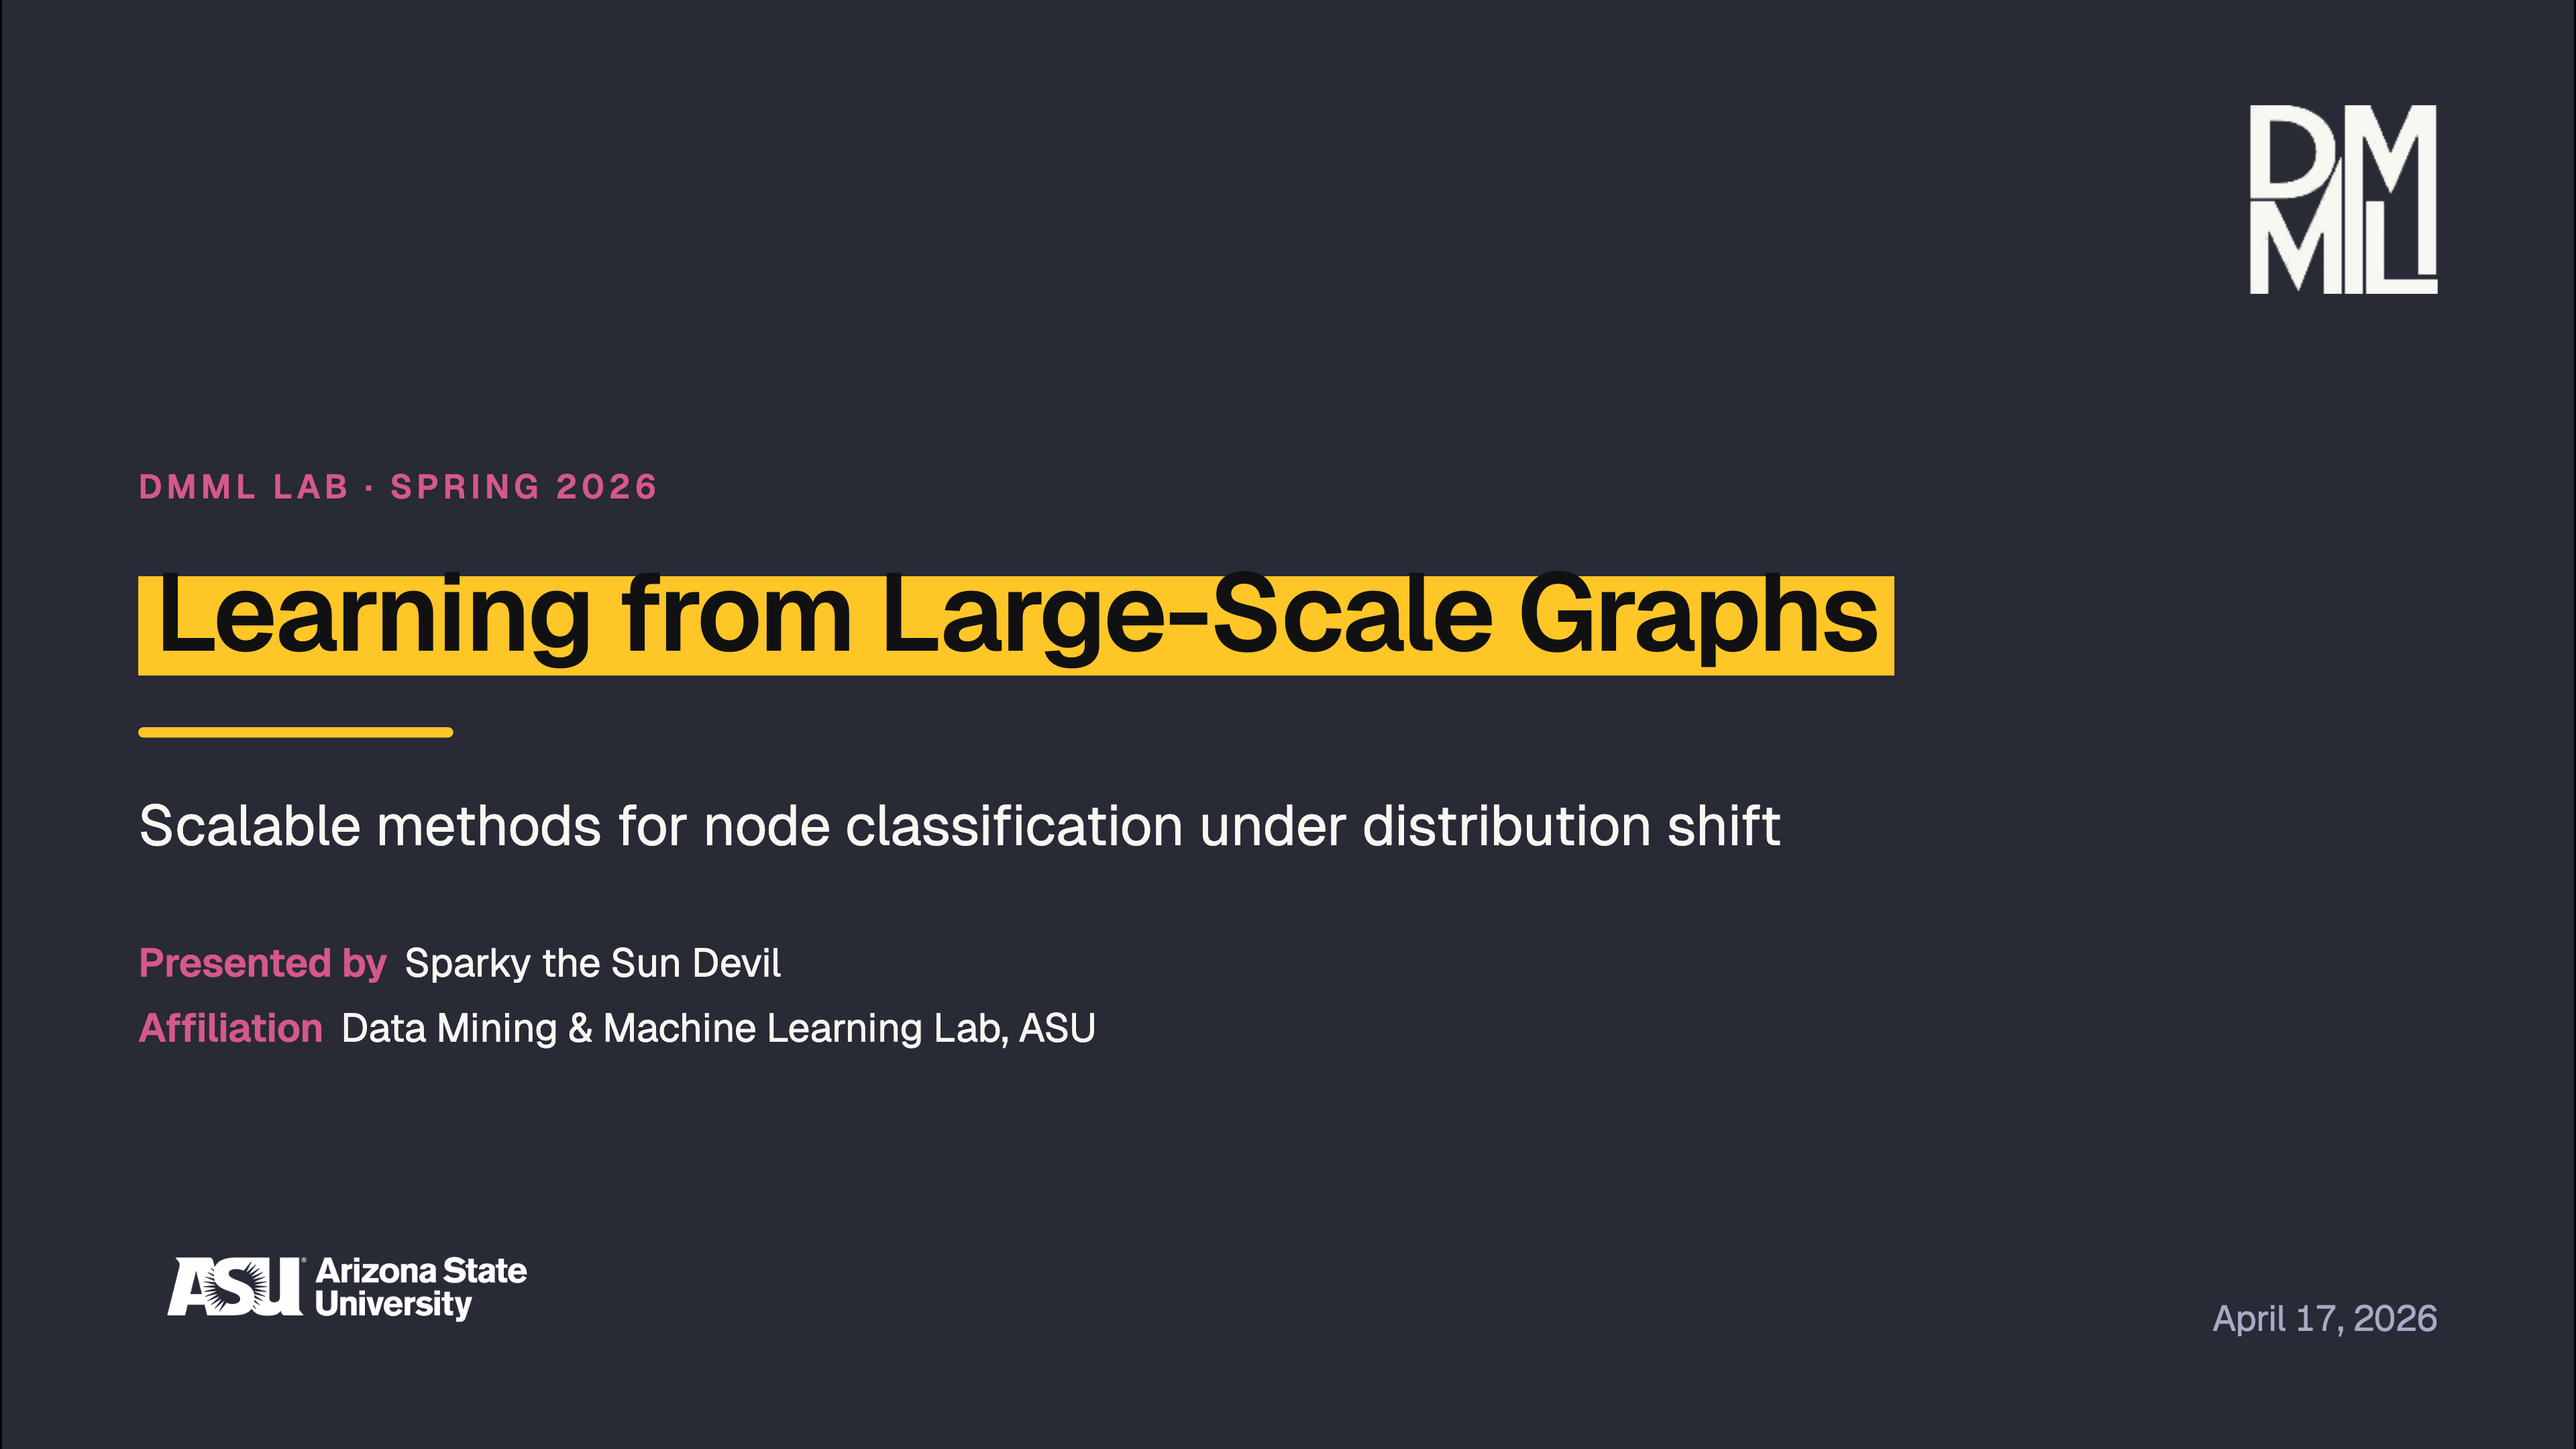
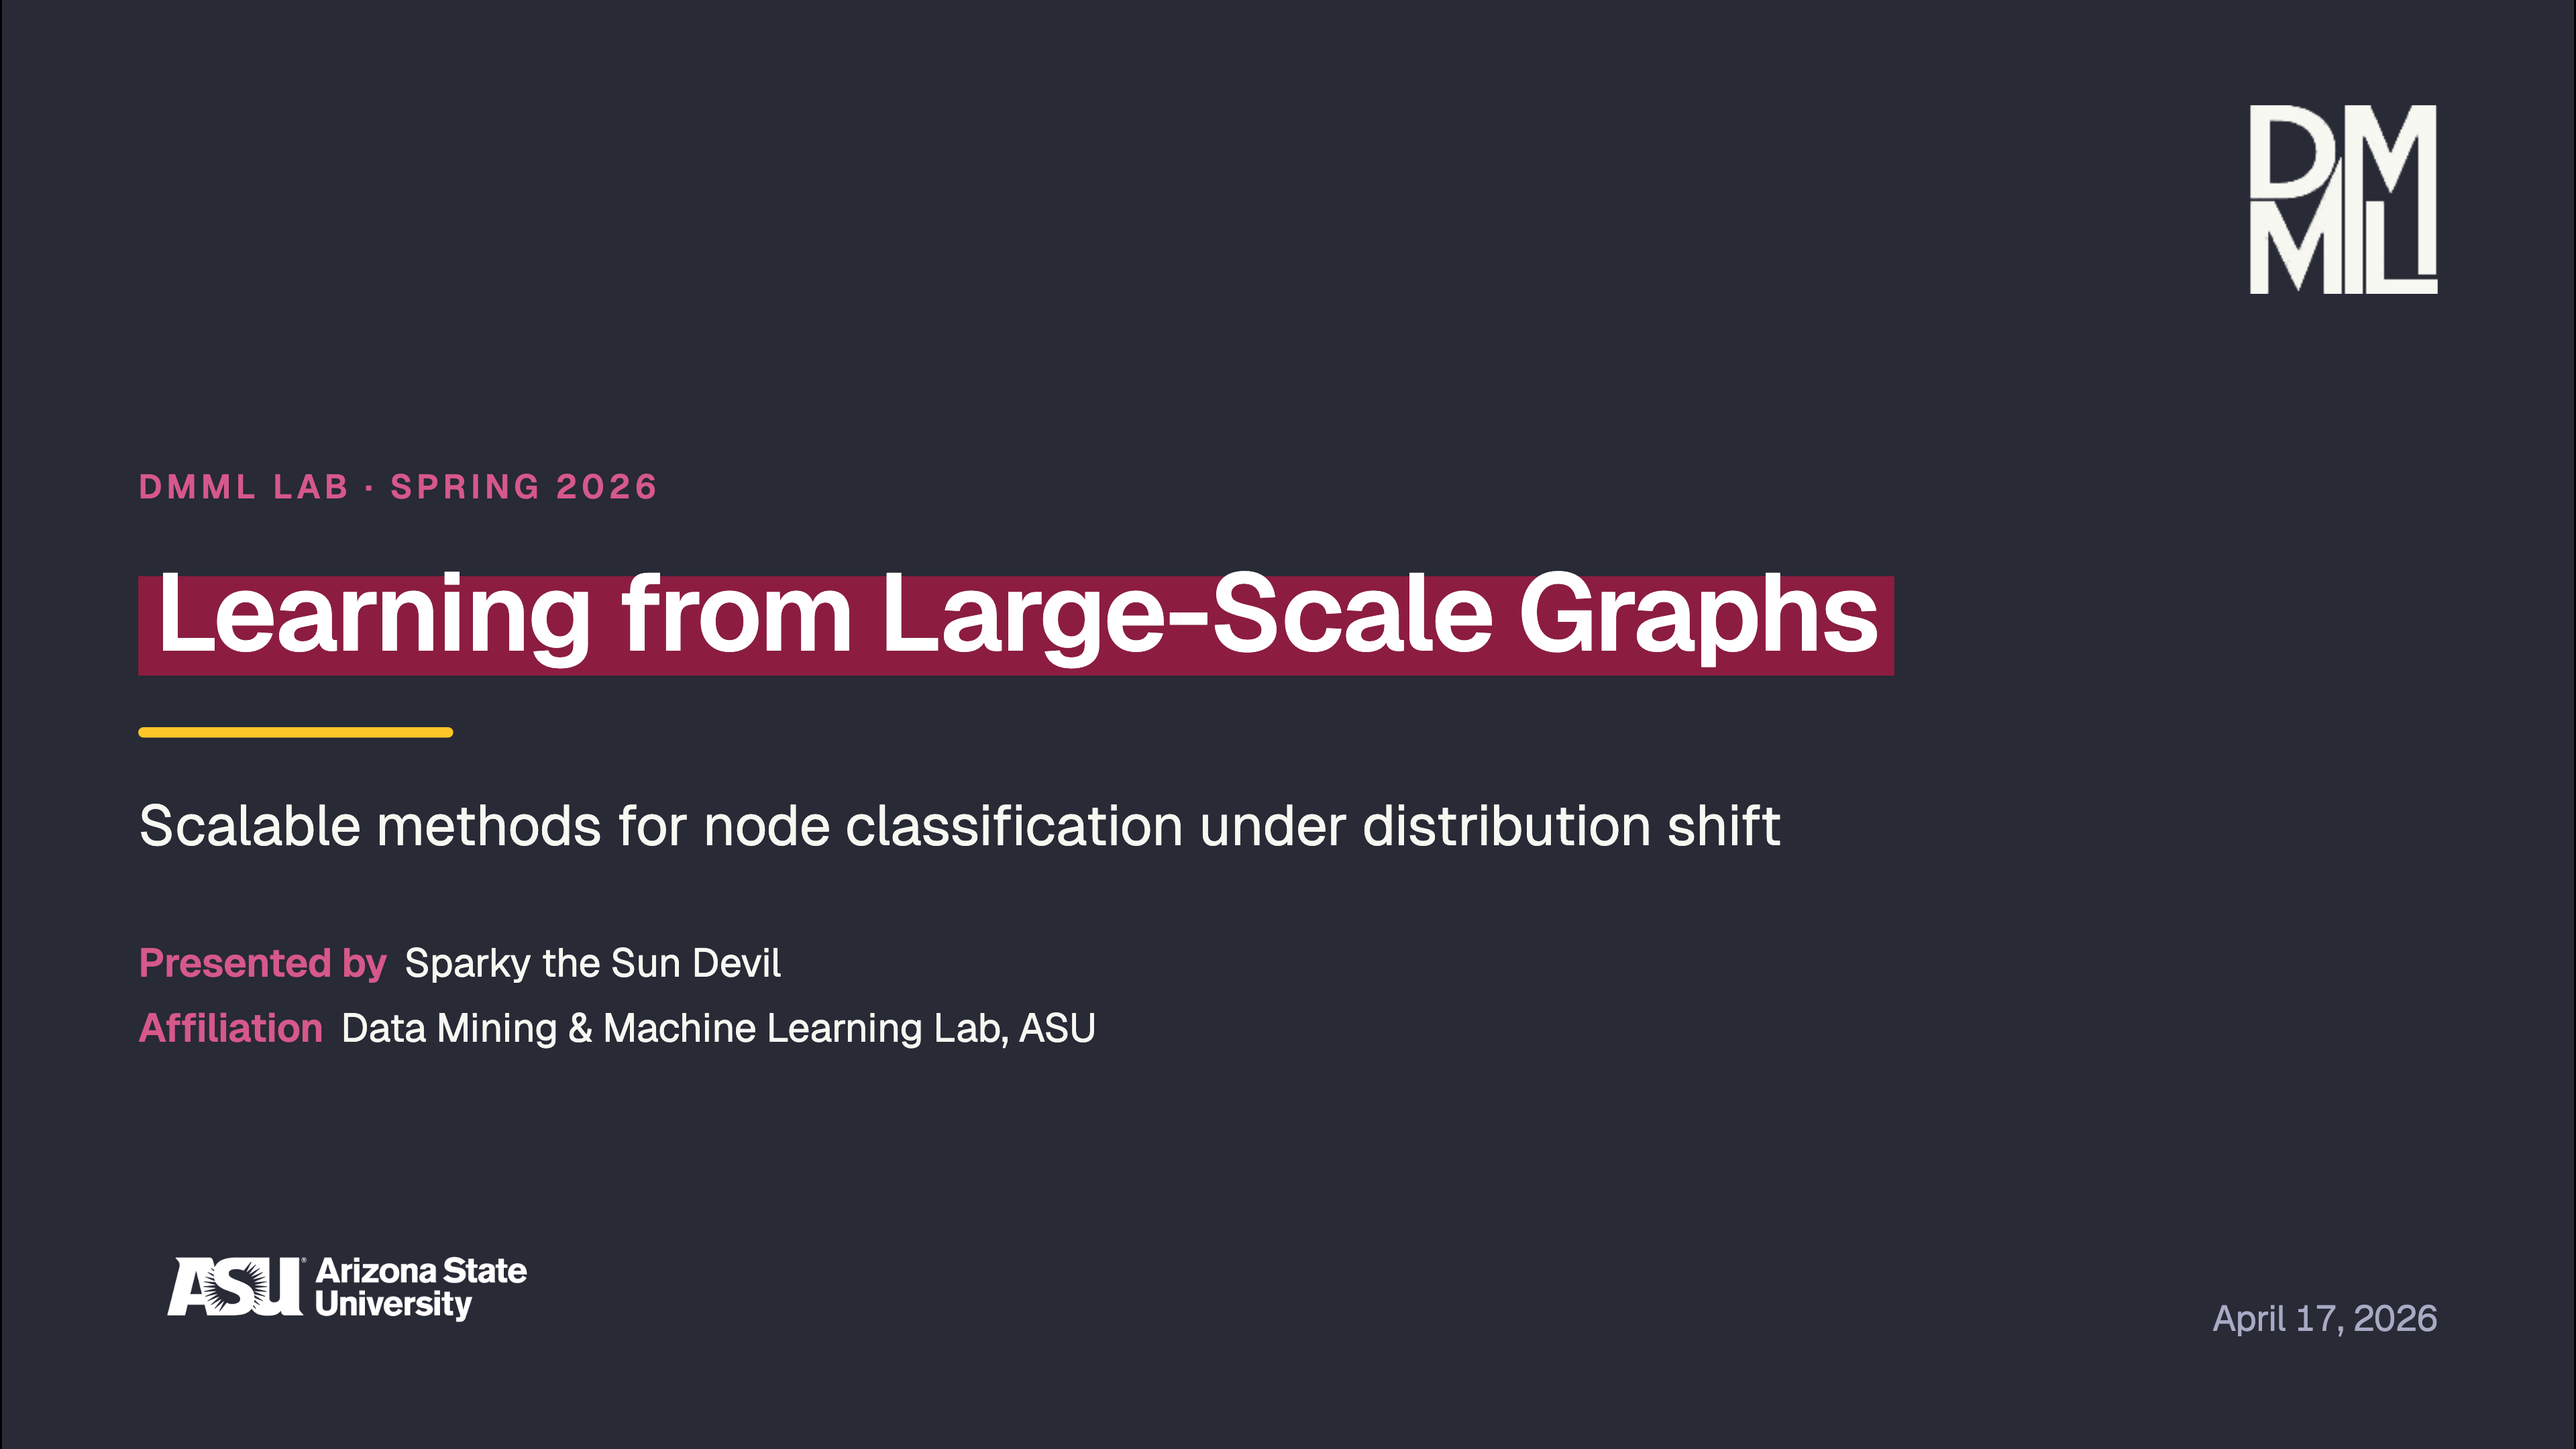
fix(cover): white-on-maroon title highlight in dark mode

Changed region(s): [[0.0312, 0.3722, 0.75, 0.4653]]

diff --git a/styles/layout.css b/styles/layout.css
@@ -383,18 +383,24 @@ html.dark {
   margin: 0;
 }
 .dmml-cover__title .highlight {
+  --dmml-highlight-bg: var(--asu-gold);
+  --dmml-highlight-fg: #111113;
   background: linear-gradient(
     180deg,
     transparent 0%,
     transparent 25%,
-    var(--asu-gold) 25%,
-    var(--asu-gold) 95%,
+    var(--dmml-highlight-bg) 25%,
+    var(--dmml-highlight-bg) 95%,
     transparent 95%
   );
-  color: #111113;
+  color: var(--dmml-highlight-fg);
   padding: 0 0.15em;
   box-decoration-break: clone;
   -webkit-box-decoration-break: clone;
+}
+html.dark .dmml-cover__title .highlight {
+  --dmml-highlight-bg: var(--asu-maroon);
+  --dmml-highlight-fg: #ffffff;
 }
 .dmml-cover__rule {
   width: 120px;

diff --git a/CHANGELOG.md b/CHANGELOG.md
@@ -5,6 +5,12 @@ All notable changes to this project will be documented in this file.
 The format is based on [Keep a Changelog](https://keepachangelog.com/en/1.1.0/),
 and this project adheres to [Semantic Versioning](https://semver.org/spec/v2.0.0.html).
 
+## [0.1.4] — 2026-04-17
+
+### Fixed
+
+- Cover title in dark mode now reads as white-on-maroon (mirroring the dark-on-gold marker in light mode), instead of dark text on gold which clashed with the slate background.
+
 ## [0.1.3] — 2026-04-17
 
 ### Changed
